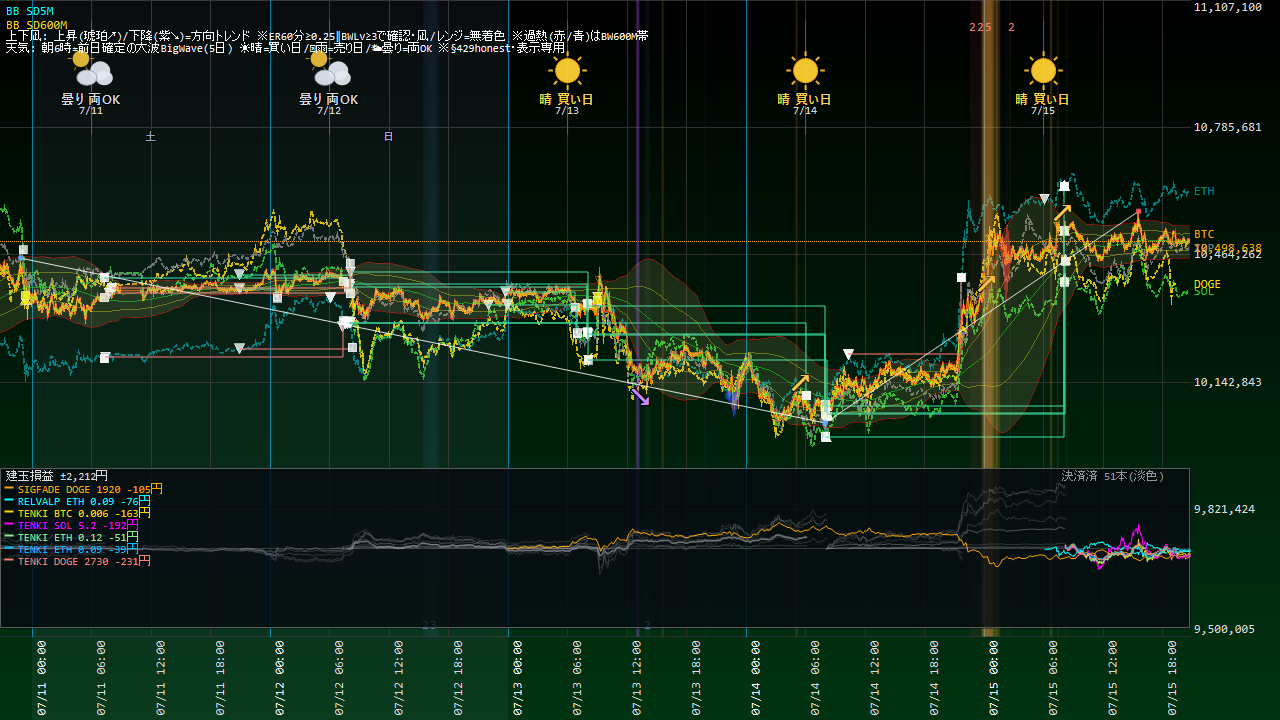
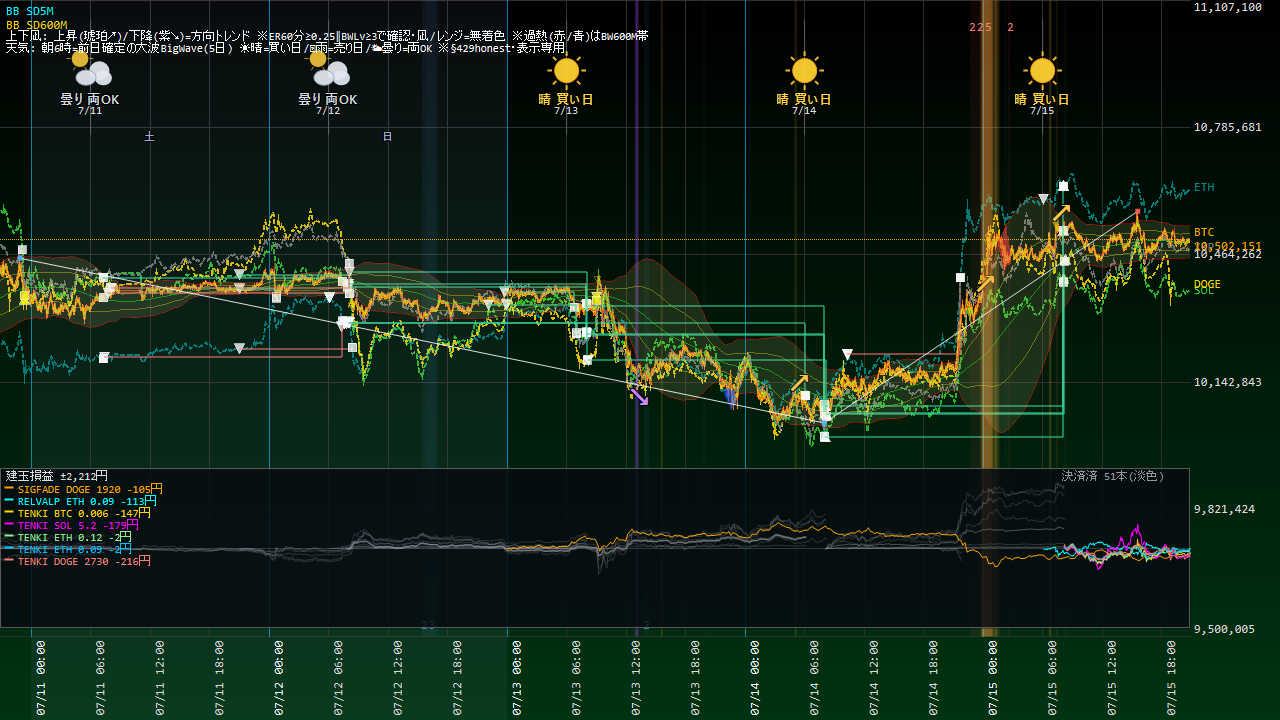
Coin100S 運用状況更新 07-15 20:59

diff --git a/coin100s-795hc4jfv8/index.html b/coin100s-795hc4jfv8/index.html
@@ -14,16 +14,16 @@ a{color:#60a5fa;text-decoration:none} a:hover{text-decoration:underline}
 .meta{color:#94a3b8;font-size:13px}</style>
 <script>setTimeout(function(){location.replace(location.pathname+"?t="+Date.now());},300000);</script></head><body>
 <h1>Coin100S ダッシュボード</h1>
-<p class="meta">スナップショット: 2026-07-15 20:52:53(自動リロード・最新化)</p>
+<p class="meta">スナップショット: 2026-07-15 20:58:53(自動リロード・最新化)</p>
 <div class="cards">
 <div class="card">建玉数<div class="v">7</div></div>
 <div class="card">本日損益<div class="v pos">+7,523円</div></div>
-<div class="card">評価損益<div class="v neg">-804円</div></div>
+<div class="card">評価損益<div class="v neg">-710円</div></div>
 </div>
 <h2>現在の建玉</h2>
-<table><tr><th>銘柄</th><th>側</th><th>数量</th><th>建値</th><th>含損益</th><th>レッグ</th></tr><tr><td>BTC_JPY</td><td>BUY</td><td>0.006</td><td>@10,526,974</td><td>-150円</td><td>TENKI5D_REV_BTC</td></tr><tr><td>DOGE_JPY</td><td>BUY</td><td>2730</td><td>@12</td><td>-224円</td><td>TENKI5D_REV_DOGE</td></tr><tr><td>DOGE_JPY</td><td>SELL</td><td>1920</td><td>@12</td><td>-104円</td><td>SIGFADE_DOGE</td></tr><tr><td>ETH_JPY</td><td>BUY</td><td>0.09</td><td>@305,729</td><td>-14円</td><td>TENKI5D_REV_ETH</td></tr><tr><td>ETH_JPY</td><td>BUY</td><td>0.12</td><td>@305,723</td><td>-18円</td><td>TENKI5D_REV_ETH</td></tr><tr><td>ETH_JPY</td><td>SELL</td><td>0.09</td><td>@304,456</td><td>-101円</td><td>RELVALP_SELL</td></tr><tr><td>SOL_JPY</td><td>BUY</td><td>5.2</td><td>@12,601</td><td>-193円</td><td>TENKI5D_REV_SOL</td></tr></table>
+<table><tr><th>銘柄</th><th>側</th><th>数量</th><th>建値</th><th>含損益</th><th>レッグ</th></tr><tr><td>BTC_JPY</td><td>BUY</td><td>0.006</td><td>@10,526,974</td><td>-127円</td><td>TENKI5D_REV_BTC</td></tr><tr><td>DOGE_JPY</td><td>BUY</td><td>2730</td><td>@12</td><td>-211円</td><td>TENKI5D_REV_DOGE</td></tr><tr><td>DOGE_JPY</td><td>SELL</td><td>1920</td><td>@12</td><td>-114円</td><td>SIGFADE_DOGE</td></tr><tr><td>ETH_JPY</td><td>BUY</td><td>0.09</td><td>@305,729</td><td>+14円</td><td>TENKI5D_REV_ETH</td></tr><tr><td>ETH_JPY</td><td>BUY</td><td>0.12</td><td>@305,723</td><td>+19円</td><td>TENKI5D_REV_ETH</td></tr><tr><td>ETH_JPY</td><td>SELL</td><td>0.09</td><td>@304,456</td><td>-129円</td><td>RELVALP_SELL</td></tr><tr><td>SOL_JPY</td><td>BUY</td><td>5.2</td><td>@12,601</td><td>-162円</td><td>TENKI5D_REV_SOL</td></tr></table>
 <p><a href="status.html"><b>▶ 運用状況の詳細(チャート・本日の取引・レジーム)</b></a></p>
 <h2>日報一覧</h2>
 <table><tr><th>取引日</th><th>実現損益</th><th>総括</th></tr><tr><td><a href='reports/20260714_Coin100S日報.html'>2026-07-14</a></td><td class="pos">+0円</td><td class='meta'>実取引: 新規6件/決済18件、実現損益 +0円。シグナル却下5件（最多: BW10M3_5M／トレンド方向ゲート(N分傾き上と不一致=逆張り方向のfade禁止)）。⚠警告/エラー 9件（要確認）。</td></tr><tr><td><a href='reports/20260713_Coin100S日報.html'>2026-07-13</a></td><td class="pos">+0円</td><td class='meta'>実取引: 新規5件/決済8件、実現損益 +0円。シグナル却下1件（最多: BW10M3_5M／トレンド方向ゲート(N分傾き上と不一致=逆張り方向のfade禁止)）。警告/孤児/エラーなし＝健全。</td></tr><tr><td><a href='reports/20260712_Coin100S日報.html'>2026-07-12</a></td><td class="pos">+0円</td><td class='meta'>実取引: 新規14件/決済6件、実現損益 +0円。シグナル却下5件（最多: BW10M3_5M／トレンド方向ゲート(N分傾き下と不一致=逆張り方向のfade禁止)）。⚠警告/エラー 2件（要確認）。</td></tr><tr><td><a href='reports/20260711_Coin100S日報.html'>2026-07-11</a></td><td class="pos">+0円</td><td class='meta'>実取引: 新規7件/決済6件、実現損益 +0円。⚠警告/エラー 52件（要確認）。</td></tr><tr><td><a href='reports/20260710_Coin100S日報.html'>2026-07-10</a></td><td class="pos">+0円</td><td class='meta'>実取引: 新規7件/決済6件、実現損益 +0円。シグナル却下6件（最多: BW10M3_5M／トレンド方向ゲート(N分傾き上と不一致=逆張り方向のfade禁止)）。警告/孤児/エラーなし＝健全。</td></tr><tr><td><a href='reports/20260709_Coin100S日報.html'>2026-07-09</a></td><td class="pos">+0円</td><td class='meta'>実取引: 新規8件/決済3件、実現損益 +0円。シグナル却下5件（最多: SD120M_5M／トレンド方向ゲート(N分傾き上と不一致=逆張り方向のfade禁止)）。警告/孤児/エラーなし＝健全。</td></tr><tr><td><a href='reports/20260708_Coin100S日報.html'>2026-07-08</a></td><td class="pos">+0円</td><td class='meta'>実取引: 新規2件/決済4件、実現損益 +0円。シグナル却下4件（最多: SD120M_5M／トレンド方向ゲート(N分傾き下と不一致=逆張り方向のfade禁止)）。警告/孤児/エラーなし＝健全。</td></tr><tr><td><a href='reports/20260707_Coin100S日報.html'>2026-07-07</a></td><td class="pos">+0円</td><td class='meta'>実取引: 新規8件/決済6件、実現損益 +0円。シグナル却下4件（最多: SD120M_5M／トレンド方向ゲート(N分傾き上と不一致=逆張り方向のfade禁止)）。⚠警告/エラー 258件（要確認）。</td></tr><tr><td><a href='reports/20260706_Coin100S日報.html'>2026-07-06</a></td><td class="pos">+0円</td><td class='meta'>実取引: 新規9件/決済6件、実現損益 +0円。シグナル却下9件（最多: SD120M_5M／トレンド方向ゲート(N分傾き上と不一致=逆張り方向のfade禁止)）。⚠警告/エラー 150件（要確認）。</td></tr><tr><td><a href='reports/20260705_Coin100S日報.html'>2026-07-05</a></td><td class="pos">+0円</td><td class='meta'>実取引: 新規8件/決済3件、実現損益 +0円。⚠警告/エラー 2件（要確認）。</td></tr><tr><td><a href='reports/20260704_Coin100S日報.html'>2026-07-04</a></td><td class="pos">+0円</td><td class='meta'>実取引: 新規1件/決済2件、実現損益 +0円。⚠警告/エラー 2件（要確認）。</td></tr><tr><td><a href='reports/20260703_Coin100S日報.html'>2026-07-03</a></td><td class="pos">+0円</td><td class='meta'>実取引: 新規5件/決済4件、実現損益 +0円。⚠警告/エラー 15件（要確認）。</td></tr><tr><td><a href='reports/20260702_Coin100S日報.html'>2026-07-02</a></td><td class="pos">+0円</td><td class='meta'>実取引: 新規7件/決済5件、実現損益 +0円。シグナル却下17件（最多: SD120M_5M／トレンド方向ゲート(N分傾き上と不一致=逆張り方向のfade禁止)）。⚠警告/エラー 26件（要確認）。</td></tr><tr><td><a href='reports/20260701_Coin100S日報.html'>2026-07-01</a></td><td class="pos">+0円</td><td class='meta'>実取引: 新規14件/決済8件、実現損益 +0円。シグナル却下14件（最多: SD120M_5M／ボラ軸ゲート(SDN%&amp;gt;N%=高ボラ/荒れレンジ)）。⚠警告/エラー 2件（要確認）。</td></tr><tr><td><a href='reports/20260630_Coin100S日報.html'>2026-06-30</a></td><td class="pos">+0円</td><td class='meta'>実取引: 新規0件/決済1件、実現損益 +0円。シグナル却下29件（最多: 微5M／当日枠N）。警告/孤児/エラーなし＝健全。</td></tr></table>
-<hr><p class="meta">更新: 2026-07-15 20:53:09 / 自動生成: tools/web_publish.py(§580)</p>
+<hr><p class="meta">更新: 2026-07-15 20:59:07 / 自動生成: tools/web_publish.py(§580)</p>
 </body></html>

diff --git a/coin100s-795hc4jfv8/status.html b/coin100s-795hc4jfv8/status.html
@@ -14,22 +14,22 @@ a{color:#60a5fa;text-decoration:none} a:hover{text-decoration:underline}
 .meta{color:#94a3b8;font-size:13px}</style>
 <script>setTimeout(function(){location.replace(location.pathname+"?t="+Date.now());},300000);</script></head><body>
 <h1>Coin100S 運用状況</h1>
-<p class="meta">スナップショット: 2026-07-15 20:52:53 / ページ生成: 2026-07-15 20:53:09(自動リロード・最新化) / <a href="index.html">目次へ</a></p>
+<p class="meta">スナップショット: 2026-07-15 20:58:53 / ページ生成: 2026-07-15 20:59:07(自動リロード・最新化) / <a href="index.html">目次へ</a></p>
 <div class="cards">
 <div class="card">建玉数<div class="v">7</div></div>
 <div class="card">本日損益<div class="v pos">+7,523円</div></div>
-<div class="card">評価損益<div class="v neg">-804円</div></div>
+<div class="card">評価損益<div class="v neg">-710円</div></div>
 </div>
 <h2>資産推移(直近30日)</h2>
-<img src="status_equity.png?t=2053" alt="equity">
+<img src="status_equity.png?t=2059" alt="equity">
 <h2>取引チャート(直近24h)</h2>
-<img src="status_chart.png?t=2053" alt="chart">
+<img src="status_chart.png?t=2059" alt="chart">
 <h2>建玉一覧</h2>
-<table><tr><th>銘柄</th><th>側</th><th>数量</th><th>建値</th><th>含損益</th><th>レッグ</th></tr><tr><td>BTC_JPY</td><td>BUY</td><td>0.006</td><td>@10,526,974</td><td>-150円</td><td>TENKI5D_REV_BTC</td></tr><tr><td>DOGE_JPY</td><td>BUY</td><td>2730</td><td>@12</td><td>-224円</td><td>TENKI5D_REV_DOGE</td></tr><tr><td>DOGE_JPY</td><td>SELL</td><td>1920</td><td>@12</td><td>-104円</td><td>SIGFADE_DOGE</td></tr><tr><td>ETH_JPY</td><td>BUY</td><td>0.09</td><td>@305,729</td><td>-14円</td><td>TENKI5D_REV_ETH</td></tr><tr><td>ETH_JPY</td><td>BUY</td><td>0.12</td><td>@305,723</td><td>-18円</td><td>TENKI5D_REV_ETH</td></tr><tr><td>ETH_JPY</td><td>SELL</td><td>0.09</td><td>@304,456</td><td>-101円</td><td>RELVALP_SELL</td></tr><tr><td>SOL_JPY</td><td>BUY</td><td>5.2</td><td>@12,601</td><td>-193円</td><td>TENKI5D_REV_SOL</td></tr></table>
+<table><tr><th>銘柄</th><th>側</th><th>数量</th><th>建値</th><th>含損益</th><th>レッグ</th></tr><tr><td>BTC_JPY</td><td>BUY</td><td>0.006</td><td>@10,526,974</td><td>-127円</td><td>TENKI5D_REV_BTC</td></tr><tr><td>DOGE_JPY</td><td>BUY</td><td>2730</td><td>@12</td><td>-211円</td><td>TENKI5D_REV_DOGE</td></tr><tr><td>DOGE_JPY</td><td>SELL</td><td>1920</td><td>@12</td><td>-114円</td><td>SIGFADE_DOGE</td></tr><tr><td>ETH_JPY</td><td>BUY</td><td>0.09</td><td>@305,729</td><td>+14円</td><td>TENKI5D_REV_ETH</td></tr><tr><td>ETH_JPY</td><td>BUY</td><td>0.12</td><td>@305,723</td><td>+19円</td><td>TENKI5D_REV_ETH</td></tr><tr><td>ETH_JPY</td><td>SELL</td><td>0.09</td><td>@304,456</td><td>-129円</td><td>RELVALP_SELL</td></tr><tr><td>SOL_JPY</td><td>BUY</td><td>5.2</td><td>@12,601</td><td>-162円</td><td>TENKI5D_REV_SOL</td></tr></table>
 <h2>実現決済履歴(直近15件・OrderId単位)</h2>
 <table><tr><th>決済時刻</th><th>レッグ</th><th>銘柄</th><th>実現損益</th></tr><tr><td>07-15 08:18</td><td>TENKI5D_REV_DOGE</td><td>DOGE</td><td class="pos">+858円</td></tr><tr><td>07-15 08:09</td><td>TENKI5D_REV_ETH</td><td>ETH</td><td class="pos">+601円</td></tr><tr><td>07-15 08:09</td><td>TENKI5D_REV_ETH</td><td>ETH</td><td class="pos">+2,402円</td></tr><tr><td>07-15 08:09</td><td>TENKI5D_REV_SOL</td><td>SOL</td><td class="pos">+1,812円</td></tr><tr><td>07-15 08:09</td><td>TENKI5D_REV_BTC</td><td>BTC</td><td class="pos">+1,850円</td></tr><tr><td>07-14 21:47</td><td>SIGFADE_ETH</td><td>ETH</td><td class="neg">-350円</td></tr><tr><td>07-14 21:47</td><td>SIGFADE_ETH</td><td>ETH</td><td class="neg">-141円</td></tr><tr><td>07-14 08:15</td><td>TENKI5D_REV_DOGE</td><td>DOGE</td><td class="pos">+267円</td></tr><tr><td>07-14 08:06</td><td>TENKI5D_REV_SOL</td><td>SOL</td><td class="pos">+1,011円</td></tr><tr><td>07-14 08:06</td><td>TENKI5D_REV_BTC</td><td>BTC</td><td class="pos">+819円</td></tr><tr><td>07-14 08:06</td><td>TENKI5D_REV_ETH</td><td>ETH</td><td class="pos">+826円</td></tr><tr><td>07-14 06:08</td><td>RELVALP_SELL</td><td>ETH</td><td class="pos">+89円</td></tr><tr><td>07-14 06:08</td><td>RELVALP_SELL</td><td>ETH</td><td class="pos">+357円</td></tr><tr><td>07-14 06:08</td><td>RELVALP_SELL</td><td>ETH</td><td class="pos">+314円</td></tr><tr><td>07-14 06:08</td><td>RELVALP_SELL</td><td>ETH</td><td class="pos">+328円</td></tr></table>
 <!-- §799c 「本取引日の実取引(6:00起点)」テーブルは公開ページから削除(ユーザー指示2026-07-15・数量/指値まで晒す情報漏れ)。建玉/実現損益は許可・実発注の生取引明細は非公開 -->
 <h2>現在レジーム(3軸・§570c)</h2>
-<ul><li>アルト対BTC 5日: <b>+0bps</b>(アルト優越=RELVAL逆風)</li><li>BTC ER240m: <b>0.039</b>(閾値0.25→レンジ(fade順風/BWTRD逆風))</li><li>BTC実現ボラ240m: <b>3.04</b> bps/分</li></ul>
+<ul><li>アルト対BTC 5日: <b>+0bps</b>(アルト優越=RELVAL逆風)</li><li>BTC ER240m: <b>0.043</b>(閾値0.25→レンジ(fade順風/BWTRD逆風))</li><li>BTC実現ボラ240m: <b>3.03</b> bps/分</li></ul>
 <hr><p class="meta">自動生成: tools/web_publish.py(§580・読み取り専用)。売買判断はアプリ本体。</p>
 </body></html>
